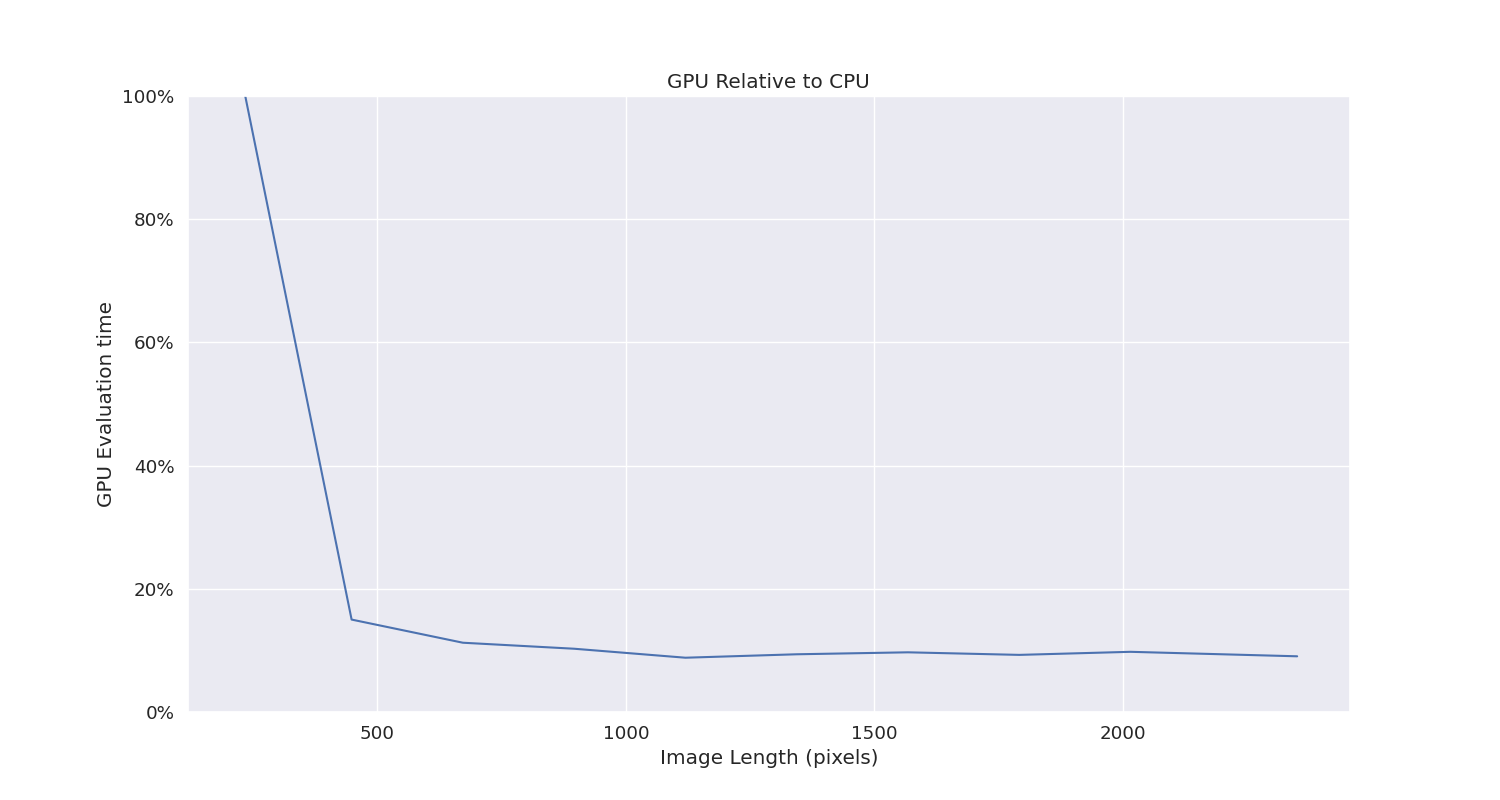
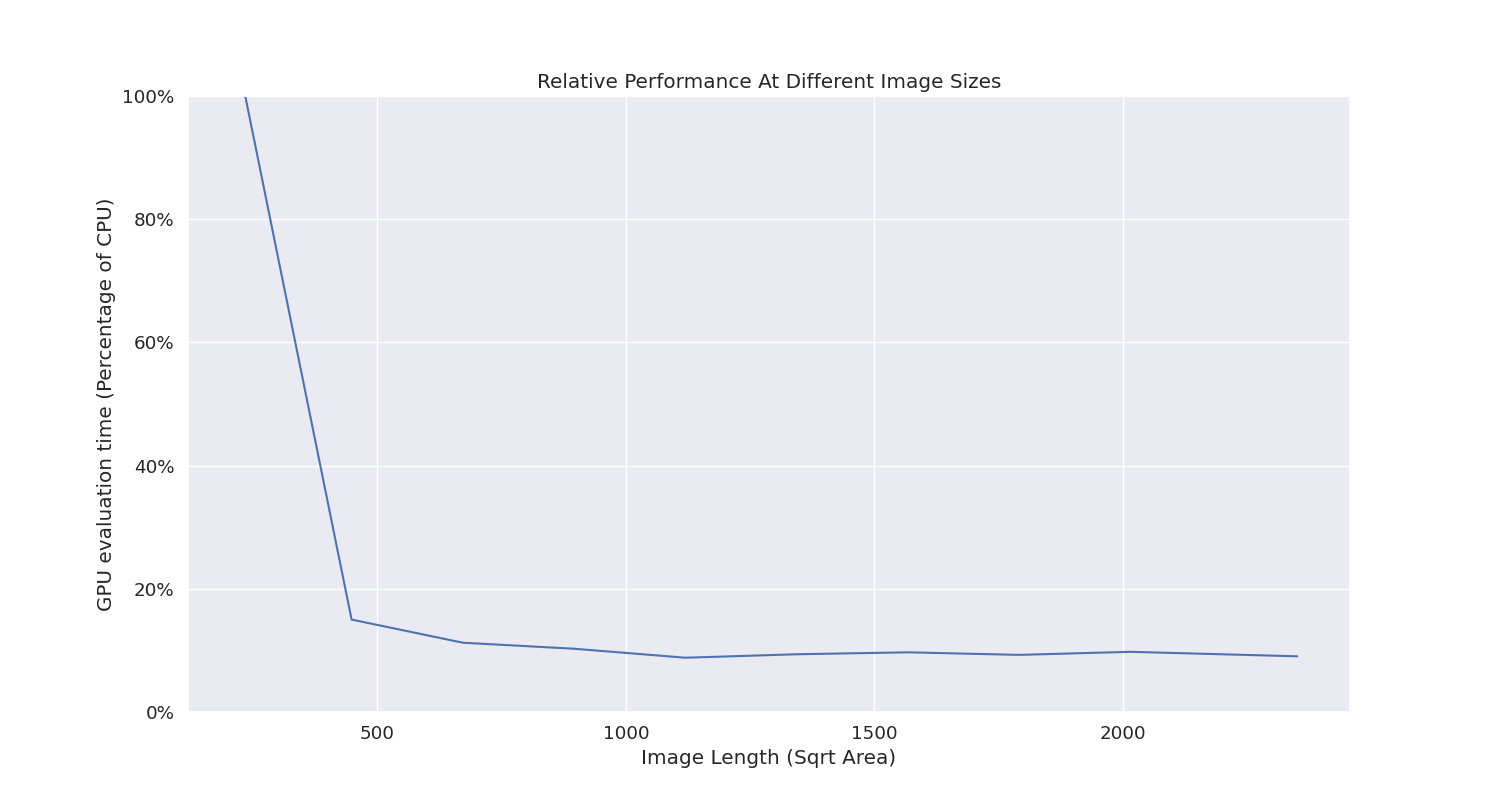
Figure descriptions and axes

diff --git a/successive_crop_benchmark.py b/successive_crop_benchmark.py
@@ -170,6 +170,7 @@ def make_text(calc_time, length, neg):
 
 
 plt.ylim([-10, 120])
+plt.xlabel("Image Length (Sqrt Area)")
 
 for proc in df.index.get_level_values(0).unique():
     gdf = df.loc[proc][["Calculation_Time", "Length"]]
@@ -180,19 +181,18 @@ for proc in df.index.get_level_values(0).unique():
             make_text(calc_time, length, neg=True)
         else:
             make_text(calc_time, length, neg=False)
-
+plt.title("Absolute Processing Time")
 plt.savefig("figures/GPU_vs_CPU.png")
-
 
 percentage_improvement = df_gpu["Calculation_Time"].div(
     df_cpu["Calculation_Time"]
 )
-#%%
+# %%
 fig, ax = plt.subplots(ncols=1, nrows=1, figsize=(15, 8))
 ax.plot(df_gpu["Length"], percentage_improvement)
-ax.set_title("GPU Relative to CPU")
-ax.set_ylabel("GPU Evaluation time")
-ax.set_xlabel("Image Length (pixels)")
+ax.set_title("Execution time")
+ax.set_ylabel("GPU evaluation time (Percentage of CPU)")
+ax.set_xlabel("Image Length (Sqrt Area)")
 ax.yaxis.set_major_formatter(PercentFormatter(1))
 ax.set_ylim([0, 1])
 plt.savefig("figures/Percentage_Improvement.png")
